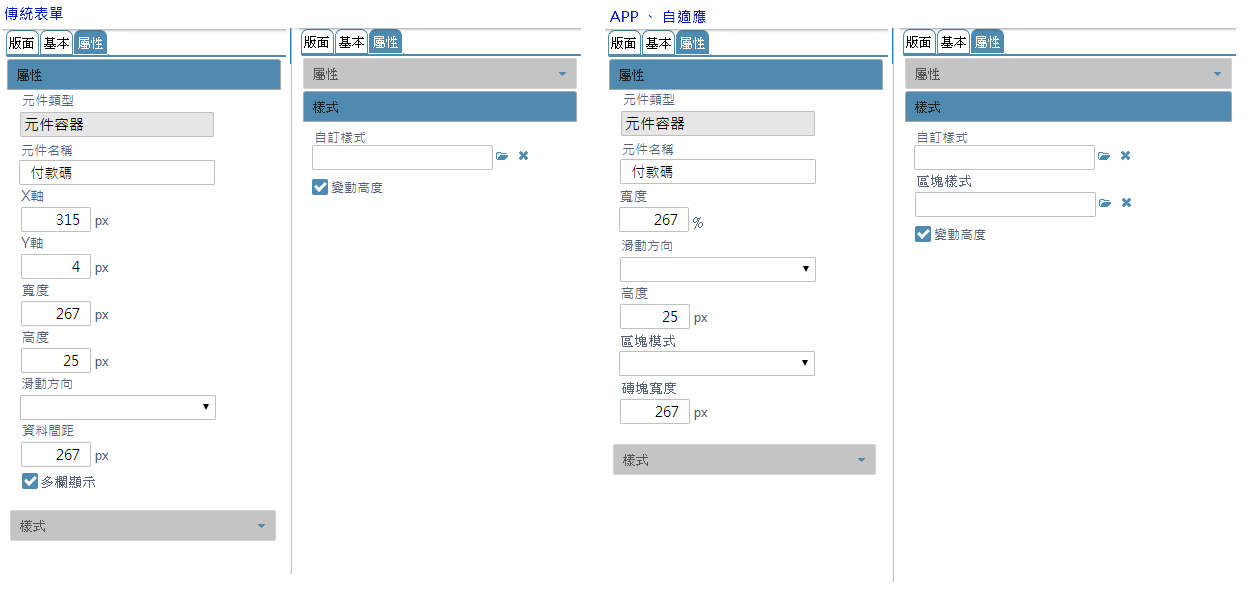
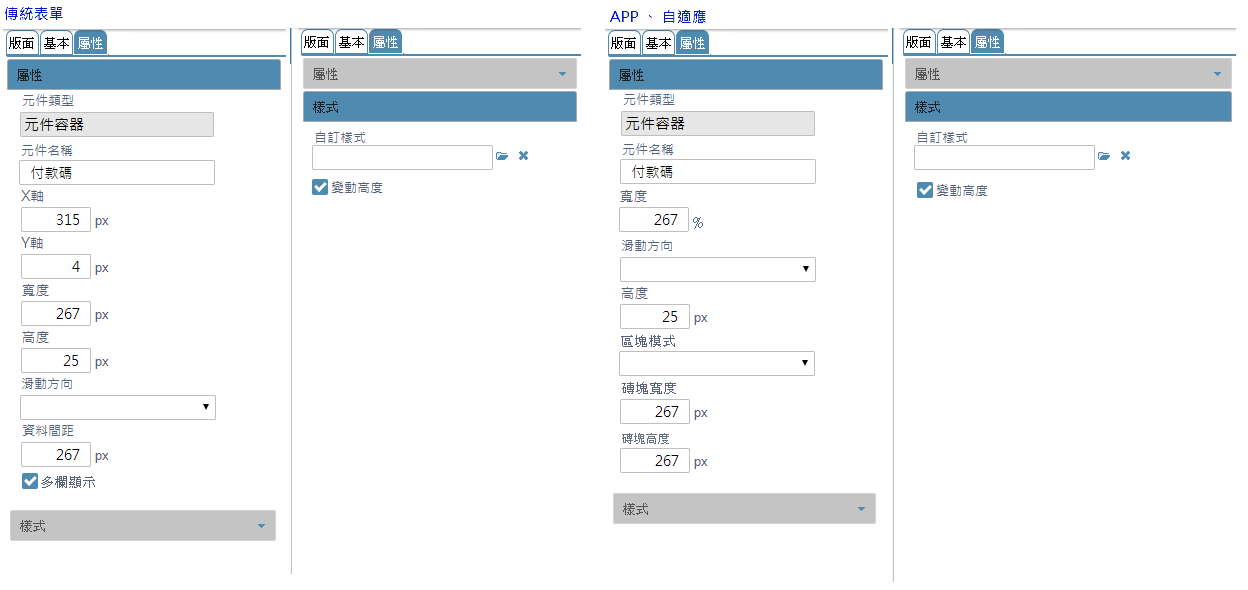
#8610 IDE_元件容器規格異動

diff --git a/8.10.0/UPDATE/ITEM_25/IDE/Form/WidgetBaseProperty_wCtnr.md b/8.10.0/UPDATE/ITEM_25/IDE/Form/WidgetBaseProperty_wCtnr.md
@@ -29,8 +29,8 @@
         * [座標異動通則][]
 * `(5)高度`
     * 用途說明
-    * 規格說明
-        * 參照 [元件寬高異動通則][link_width_and_height]
+    * 規格說明 動通則][link_width_and_height]
+        * 若設計類型=APP 或 RWD, 且元件類型=容器元件(wCtnr), 且`(3)變動高度`=勾選, 則 除能, 否則 致能
 * `(6)寬度`
     * 用途說明
     * 規格說明
@@ -50,7 +50,7 @@
     * 規格說明
         * 當設計類型=APP 或 RWD, 則本欄位隱藏, 否則 顯示
         * 系統預設 10, 可修改, 只允輸入數值型態內容, 且不允為負數
-        * 若欄位內容為空值, 欄位跳離後, 顯示訊息盒【標題: 系統訊息 / 訊息內容: 資料間距不允為空值值】, 系統回復上次修改內容
+        * 若欄位內容為空值, 欄位跳離後, 顯示訊息盒【標題: 系統訊息 / 訊息內容: 資料間距不允為空值】, 系統回復上次修改內容
 * `(10)區塊模式`
     * 用途說明
         * 容器的每一筆記錄為一資料區塊
@@ -58,12 +58,27 @@
         * 當設計類型=STD 則本欄位隱藏, 否則 顯示
         * 下拉選項: 磚塊式 / 單列式
         * 系統預設: 單元列
+        * 當切換區塊模式=磚塊式時, 異動如下:
+            * `(11)磚塊寬度`=`(6)寬度`的比率換算成px的值
+            * `(12)磚塊高度`=`(5)高度`
+            * [樣式欄位說明][link_style_object_desc]的`變動高度`=未勾選
+            * 容器下所有子元件對應的`變動高度`=未勾選, 且欄位除能
+        * 當切換區塊模式=單列式時, 異動如下:
+            * [樣式欄位說明][link_style_object_desc]的`變動高度`=勾選
+            * 清空 `(11)磚塊寬度`、`(12)磚塊高度`
 * `(11)磚塊寬度`
     * 用途說明
     * 規格說明
         * 當設計類型=STD 則本欄位隱藏, 否則 顯示
-        * 當`(9)區塊模式`=磚塊式, 則 致能，否則 除能
-
+        * 當`(9)區塊模式`=磚塊式, 則 致能, 否則 除能
+* `(12)磚塊高度`
+    * 用途說明
+    * 規格說明
+        * 當設計類型=STD 則本欄位隱藏, 否則 顯示
+        * 當`(9)區塊模式`=磚塊式, 則 致能, 否則 除能
+        * 若 異動後磚塊高度 > 原磚塊高度, 異動: 區塊內最後一列的高度 = 原列高 + (異動後磚塊高度-原磚塊高度)
+        * 若 異動後磚塊高度 > 原磚塊高度, 且區塊內列的總高度 > 磚塊高度, 顯示 垂直捲軸
+        * 若 異動後磚塊高度 > `(5)高度`, 顯示訊息盒【標題: 系統訊息 / 訊息內容: 磚塊高度不得大於容器高度】，系統回復上次修改內容
 
 ## <div id="style-object-desc">樣式欄位說明</div>
 * ![pic][image_wCtnr_style]
@@ -79,8 +94,8 @@
     * 用途說明
         * 當為磚塊式，提供變動高度選擇，單列式的容器元件一定是變動高度
     * 規格說明
-        * 當[屬性欄位說明][link_attributes_object_desc]的`(9)區塊模式`=磚塊式, 顯示本欄位, 並預設給值:未勾選, 否則 隱藏本欄位
-
+        * 參照 [元件寬高異動通則][link_width_and_height]
+        * 當設計類型=APP 或 RWD, 且父階元件類型=元件容器(wCtnr), 且該父階的容器區塊模式=單列式, 本欄除能
 
 
 ## <div id="right-click-function">右鍵功能</div>
@@ -105,6 +120,8 @@
 [image_wCtnr_style]:attachment/WidgetBaseProperty_wCtnr_style.png
 
 <!-- 超連結 -->
+
 [link_attributes_object_desc]:#attributes-object-desc
+[link_style_object_desc]:#style-object-desc
 [link_style_select]:GeneralRules#style-select
 [link_width_and_height]:GeneralRules#width-and-height

diff --git a/8.10.0/UPDATE/ITEM_25/IDE/Form/README.md b/8.10.0/UPDATE/ITEM_25/IDE/Form/README.md
@@ -4,10 +4,37 @@
     
 
 ## <div id="main-block-desc">主畫面_版面區塊說明</div>
+
+* <p id="fieldbreak1" style="color:blue;font-weight:bold">樣式呈現</p>
+
+    * 各元件類型在版面上的樣式呈現, 除非有特別說明或DKS已開放設定的部份, 其它皆以 Client 引擎目前的預設樣式為主(含除致能變化), 本文件不列引擎樣式說明, 若有引擎樣式規格問題, 請洽 Client 引擎負責人
+        * 元件類型: 元件容器(wCtnr), 增加顯示區塊的狀態樣式: 請洽 client 引擎負責人
+        * 元件類型: 元件容器(wCtnr), 編輯模式下, 若資料查詢資料
+
 * <p id="fieldbreak1" style="color:blue;font-weight:bold">版面物件操作說明</p>
 
-    * 若元件類型存在【<delLine>元件容器(wCtnr)</delLine>、頁籤區塊(wTab)、動態面板(wDpanel)、按鈕群組(wRBGroup)、多筆瀏覽(wGrdLite)】
-        * 若設計類型=自適應 或 APP，系統預設初始高度:50px，元件屬性:變動高度，固定為 True，元件高度應依子階元件的總高度變動
+    * 物件拖拉原則
+        * 若元件類型存在【<delLine>元件容器(wCtnr)</delLine>、頁籤區塊(wTab)、動態面板(wDpanel)、按鈕群組(wRBGroup)、多筆瀏覽(wGrdLite)】
+            * 若設計類型=自適應 或 APP, 系統預設初始高度:50px, 元件屬性:變動高度, 固定為 True, 元件高度應依子階元件的總高度變動
+        * 若元件類型存在【頁籤區塊(wTab)、動態面板(wDpanel)、按鈕群組(wRBGroup)、多筆瀏覽(wGrdLite)】或 元件類型=元件容器(wCtnr), 且區塊模式=單列式
+            * 若設計類型=自適應 或 APP, 系統預設初始高度:50px, 元件屬性: 變動高度，固定為 True, 元件高度應依子階元件的總高度變動
+                    此處規格不變，省略
+        * 若元件類型=元件容器(wCtnr), 且區塊模式=磚塊式              
+            * 新增列、 插件列: 
+                * 固定給列高度:50px
+                * 磚塊高度、磚塊寬度: 不變化
+            * 增修刪子元件時的異動變化
+                * 當新增子元件時, 磚塊高度不變; 子元件的變動高度調整為false, 且除能; 否則 致能
+                    * 每次計算子元件總高度，若大於磚塊高度，則出現垂直捲軸 
+                * 當刪除子元件時, 
+                    * 磚塊高度不變, 重新計算各列高度, 將剩餘高度給最後一列
+                    * 若刪除子元件後，該列各欄已無子元件，調整列高度: 50px
+                * 當修改子元件高度時
+                    * 重新計算子元件總高度，若大於磚塊高度，則出現垂直捲軸 
+                    * 重新計算該列子元件總高度, 若有多餘的高度，將剩餘的高度給最後一列
+                * 
+
+
 
 
 

diff --git a/8.10.0/UPDATE/ITEM_25/IDE/README.md b/8.10.0/UPDATE/ITEM_25/IDE/README.md
@@ -5,26 +5,26 @@
 * 2021/08/11
 
 ### <div id="trac">TRAC</div>
-* 待開 
+* #8610
 
 ### <div id="requirement">需求展開</div>
-* 表單版面設計: 當表單設計型=RWD、APP時, 擴充元件容器可設定的屬性
+* 表單版面設計: 表單設計型=RWD、APP, 擴充元件容器可設定的屬性
     * +區塊模式: 下拉(磚塊式、單列式)
     * +磚塊寬度: px, 當區塊模式=磚塊式, 致能
-    * +變動高度: 當區塊模式=磚塊式, 預設值=false；否則, 預設值=true (取消元件容器一定是變動高度) 
+    * +磚塊高度: px, 當區塊模式=磚塊式, 致能
+    * +變動高度: 當區塊模式=磚塊式, 預設值=false；否則, 預設值=true (取消元件容器一定是變動高度的規格) 
     * +高度: 當變動高度=true時, 表示為最小高度
-    * +區塊樣式:
     * -資料間距: 轉資料為區塊樣式，依區塊樣式設定上、下、左、右內間距 
+* 單元樣式: 容器元件，增加狀態樣式: 
+    * RWD: mobile_Block  (RWD)區塊Block
+    * APP: Apps_Block    (Apps)區塊Block
 * 元件加註_更新給值: 
     * 容器元件僅支援: 呼叫按鈕功能, 呼叫時機: 資料行移動、滑鼠雙擊
     * 其他元件類型支援呼叫按鈕功能(參考RWD)
-* 連動修正
+* 連動修正:
     * 表單精靈
     * 規格複製
     * 跨專案複製
-    
-   
-
 
 
 

diff --git a/8.10.0/UPDATE/ITEM_25/IDE/Form/GeneralRules.md b/8.10.0/UPDATE/ITEM_25/IDE/Form/GeneralRules.md
@@ -37,7 +37,7 @@
         * 若欄位內容為空值，欄位跳離後，顯示訊息盒【標題: 系統訊息 / 訊息內容: 高度不允為空值】，系統回復上次修改內容
         * 若欄位內容小於等於0，欄位跳離後，顯示訊息盒【標題: 系統訊息 / 訊息內容: 高度不得小於等於0】，系統回復上次修改內容
         * 若顯示標題=True 且 標題位置=上 或 下 且 元件高度 <= 標題高度，本欄位異動後，顯示訊息盒【標題: 系統訊息 / 訊息內容: 元件高度不得小於等於顯示標題的高度】，系統回上復次修改內容
-        * 若設計類型=傳統表單，修改高度 且 調整後元件高度不在版面內，本欄位異動後，顯示錯誤訊息盒【標題: 系統訊息 / 訊息內容: 調整後元件高度超過版面，不允異動】，系統回復上次修改內容
+        * 若設計類型=傳統表單，修改高度 且 調整後元件高度不在版面內，本欄位異動後，顯示錯誤訊息盒【標題: 系統訊息 / 訊息內容: 調整後元件高度超過版面，不允異動】，系統回復上次修改內容        
 * `(2)寬度`
     * 用途說明
     * 規格說明
